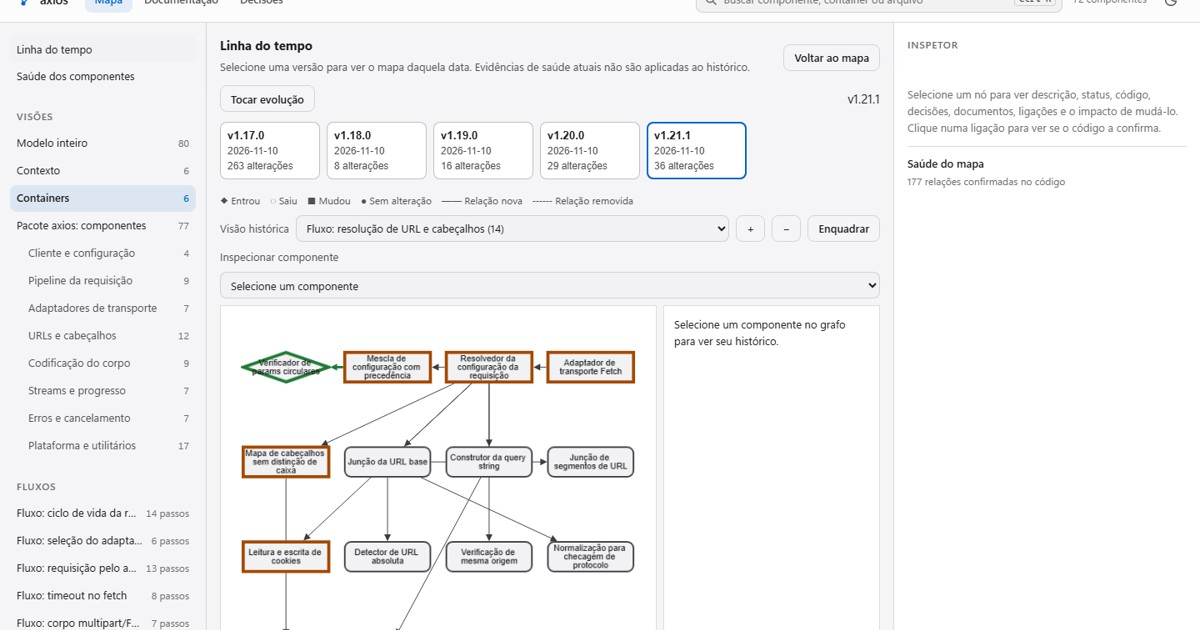
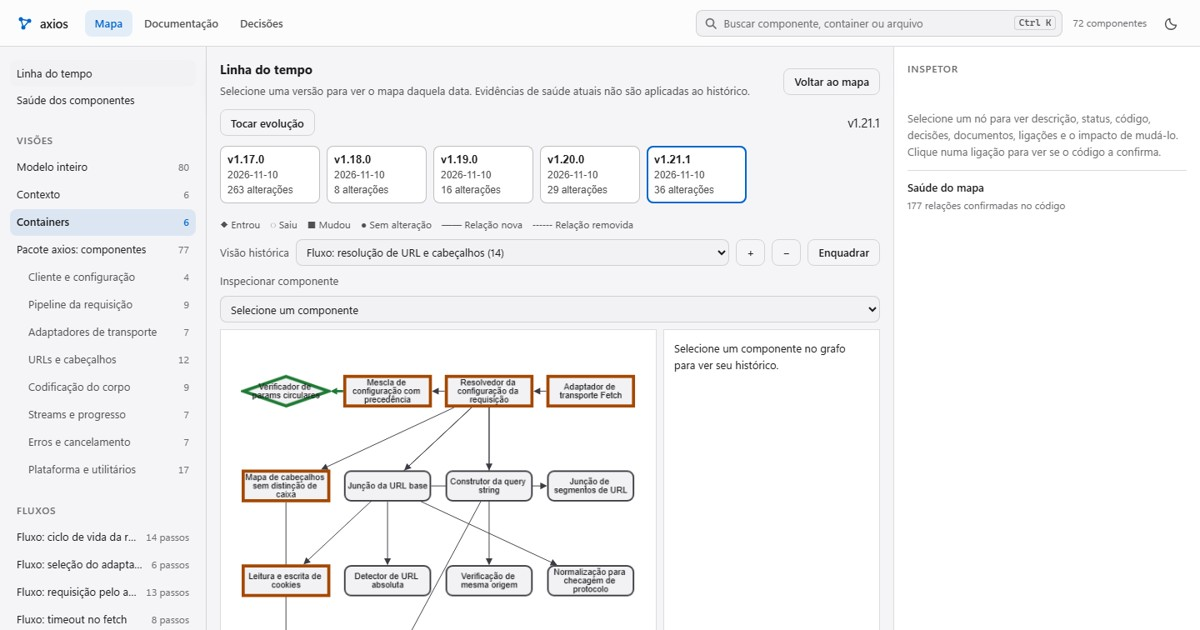
fix(lodemap): ajustes da revisão independente das páginas
Rótulo do 18 na nova/ passa a dizer o que mede (descrições alteradas no mapa
da demo) e explica a diferença para as 16 da seção de custo; frases sobre
capturas refeitas atualizadas; linha-do-tempo.js no lugar do .json; versões
v1.17.0 a v1.21.1 por extenso; "modo Saúde". Open Graph recortado sem cortar o
cabeçalho.

diff --git a/lodemap/nova/index.html b/lodemap/nova/index.html
@@ -132,19 +132,19 @@ rot();b.addEventListener("click",function(){var n=atual()==="light"?"dark":"ligh
   <div class="wrap cols">
     <div class="leg"><b>Fig. <em>02</em></b><span class="t">Linha do tempo</span><p>Histórico calculado a partir das versões do mapa no git.</p></div>
     <div>
-      <span class="sel">5 releases auditadas · axios v1.17 a v1.21.1</span>
+      <span class="sel">5 releases auditadas · axios v1.17.0 a v1.21.1</span>
       <h2 id="h-02">Veja o que entrou, saiu e mudou em cada versão.</h2>
       <p class="lede">A linha do tempo compara os identificadores estáveis do mapa entre cinco releases auditadas. No explorador, selecione uma visão histórica, toque a evolução e consulte o histórico de um componente. O leitor reúne as mudanças de cada versão.</p>
       <div class="tl body">
         <div class="fhead"><span>axios · comparação registrada</span><span>v1.20.0 → v1.21.1</span></div>
         <div class="stage-real">
           <div><span class="lab">Componentes</span><strong>3</strong><p>entraram no mapa</p></div>
-          <div><span class="lab">Mudaram</span><strong>18</strong><p>componentes alterados</p></div>
+          <div><span class="lab">Descrição</span><strong>18</strong><p>alteradas (mapa da demo)</p></div>
           <div><span class="lab">Relações</span><strong>12</strong><p>novas</p></div>
         </div>
-        <p class="ffoot">Comparação calculada do histórico real da demo: <code>linha-do-tempo.json</code>, commits <code>1c17226</code> e <code>3dbe82c</code>. A gravação em português está em validação.</p>
+        <p class="ffoot">Comparação calculada do histórico real da demo: <code>linha-do-tempo.js</code>, commits <code>1c17226</code> e <code>3dbe82c</code>. O mapa da demo é o do replay auditado, e o 18 inclui as descrições corrigidas pela auditoria; a seção de custo (Atualização v1.20.0 → v1.21.1) mede outra execução, com 16 descrições revisadas. A gravação em português está em validação.</p>
       </div>
-      <p class="ausente">A captura da linha do tempo em português ainda não foi refeita para as cinco releases. Este bloco apresenta contagens; não é uma gravação da interface.</p>
+      <p class="ausente">A captura da linha do tempo em português ainda não foi incorporada a esta página. Este bloco apresenta contagens; não é uma gravação da interface.</p>
     </div>
   </div>
 </section>
@@ -320,7 +320,7 @@ roteador -> fila <span class="s">"Publica a tarefa"</span></pre>
         <li class="menos"><span class="sg" aria-label="Não">−</span><div class="tx"><b>Economia de tokens para agentes: não demonstrada.</b><span>Num teste pré-registrado (Sonnet, 16 tarefas de navegação no chi e no axios, 3 rodadas cada), os tokens foram os mesmos com e sem o mapa: razão mediana 0,99. O acerto se manteve (recall 0,991 contra 0,977). Ele é antes de tudo um mapa para pessoas.</span></div></li>
         <li class="menos"><span class="sg" aria-label="Não">−</span><div class="tx"><b>Ganho de entendimento para pessoas: não medido ainda.</b><span>Ainda não há medição com leitores.</span></div></li>
         <li class="menos"><span class="sg" aria-label="Não">−</span><div class="tx"><b>Telemetria em execução: fora do escopo.</b><span>O modo Saúde reúne evidências estáticas e relatórios disponíveis. Ele não observa o sistema em execução; a árvore de trabalho não é verificada.</span></div></li>
-        <li class="menos"><span class="sg" aria-label="Não">−</span><div class="tx"><b>Mídias em português: em validação.</b><span>O replay de cinco releases está na demo; as capturas e a gravação em português ainda não foram refeitas.</span></div></li>
+        <li class="menos"><span class="sg" aria-label="Não">−</span><div class="tx"><b>Mídias em português: em validação.</b><span>O replay de cinco releases está na demo; as capturas de tela em português já foram refeitas, mas a gravação em vídeo ainda não.</span></div></li>
         <li class="menos"><span class="sg" aria-label="Não">−</span><div class="tx"><b>macOS sem execução real.</b><span>Scripts, testes, regeneração e gancho rodaram no Windows e no Linux (Ubuntu 24.04). As fases com modelo, só no Windows.</span></div></li>
         <li class="menos"><span class="sg" aria-label="Não">−</span><div class="tx"><b>Ainda há frases falsas.</b><span>Com a conferência, 5 de 213 descrições de módulo eram falsas segundo um juiz Sonnet no chi e no axios (antes dela, 15 de 108). A conferência custa cerca de 3,7 vezes os tokens.</span></div></li>
         <li class="menos"><span class="sg" aria-label="Não">−</span><div class="tx"><b>Prova de relação só por imports.</b><span>Macros do Rust, reflection e injeção de dependência não são seguidos. Java, Kotlin, C# e C/C++ ainda não têm medição em repositório real. Passos com modelo enviam à Anthropic o código que leem, pelo Claude Code.</span></div></li>

diff --git a/lodemap/index.html b/lodemap/index.html
@@ -131,7 +131,7 @@ rot();b.addEventListener("click",function(){var n=atual()==="light"?"dark":"ligh
   <div class="wrap cols">
     <div class="leg"><b>Fig. <em>02</em></b><span class="t">Linha do tempo</span><p>Histórico calculado a partir das versões do mapa no git.</p></div>
     <div>
-      <span class="sel">5 releases auditadas · axios v1.17 a v1.21.1</span>
+      <span class="sel">5 releases auditadas · axios v1.17.0 a v1.21.1</span>
       <h2 id="h-02">Veja o que entrou, saiu e mudou em cada versão.</h2>
       <p class="lede">A linha do tempo compara identificadores estáveis do mapa entre cinco releases auditadas. Selecione uma versão, toque a evolução e consulte o histórico de um componente.</p>
       <figure class="frame body"><img src="../assets/lodemap/axios-tempo-pt.png" alt="Linha do tempo do mapa do axios com as versões 1.17.0, 1.18.0, 1.19.0, 1.20.0 e 1.21.1" style="display:block;width:100%;height:auto"><figcaption class="ffoot">Captura real da demo em português, com as cinco releases auditadas.</figcaption></figure>
@@ -296,7 +296,7 @@ roteador -> fila <span class="s">"Publica a tarefa"</span></pre>
         <li class="menos"><span class="sg" aria-label="Não">−</span><div class="tx"><b>Economia de tokens para agentes: não demonstrada.</b><span>Num teste pré-registrado (Sonnet, 16 tarefas de navegação no chi e no axios, 3 rodadas cada), os tokens foram os mesmos com e sem o mapa: razão mediana 0,99. O acerto se manteve (recall 0,991 contra 0,977). Ele é antes de tudo um mapa para pessoas.</span></div></li>
         <li class="menos"><span class="sg" aria-label="Não">−</span><div class="tx"><b>Ganho de entendimento para pessoas: não medido ainda.</b><span>Ainda não há medição com leitores.</span></div></li>
         <li class="menos"><span class="sg" aria-label="Não">−</span><div class="tx"><b>Telemetria em execução: fora do escopo.</b><span>O modo Saúde reúne evidências estáticas e relatórios disponíveis. Ele não observa o sistema em execução; a árvore de trabalho não é verificada.</span></div></li>
-        <li class="menos"><span class="sg" aria-label="Não">−</span><div class="tx"><b>Evidências de teste são estáticas.</b><span>A demo reúne cinco releases auditadas, de v1.17.0 a v1.21.1, mas a aba Saúde mostra só referências estáticas de testes: os relatórios de cobertura e JUnit estão ausentes, então o resultado de execução é desconhecido.</span></div></li>
+        <li class="menos"><span class="sg" aria-label="Não">−</span><div class="tx"><b>Evidências de teste são estáticas.</b><span>A demo reúne cinco releases auditadas, de v1.17.0 a v1.21.1, mas o modo Saúde mostra só referências estáticas de testes: os relatórios de cobertura e JUnit estão ausentes, então o resultado de execução é desconhecido.</span></div></li>
         <li class="menos"><span class="sg" aria-label="Não">−</span><div class="tx"><b>macOS sem execução real.</b><span>Scripts, testes, regeneração e gancho rodaram no Windows e no Linux (Ubuntu 24.04). As fases com modelo, só no Windows.</span></div></li>
         <li class="menos"><span class="sg" aria-label="Não">−</span><div class="tx"><b>Ainda há frases falsas.</b><span>Com a conferência, 5 de 213 descrições de módulo eram falsas segundo um juiz Sonnet no chi e no axios (antes dela, 15 de 108). A conferência custa cerca de 3,7 vezes os tokens.</span></div></li>
         <li class="menos"><span class="sg" aria-label="Não">−</span><div class="tx"><b>Prova de relação só por imports.</b><span>Macros do Rust, reflection e injeção de dependência não são seguidos. Java, Kotlin, C# e C/C++ ainda não têm medição em repositório real. Passos com modelo enviam à Anthropic o código que leem, pelo Claude Code.</span></div></li>
